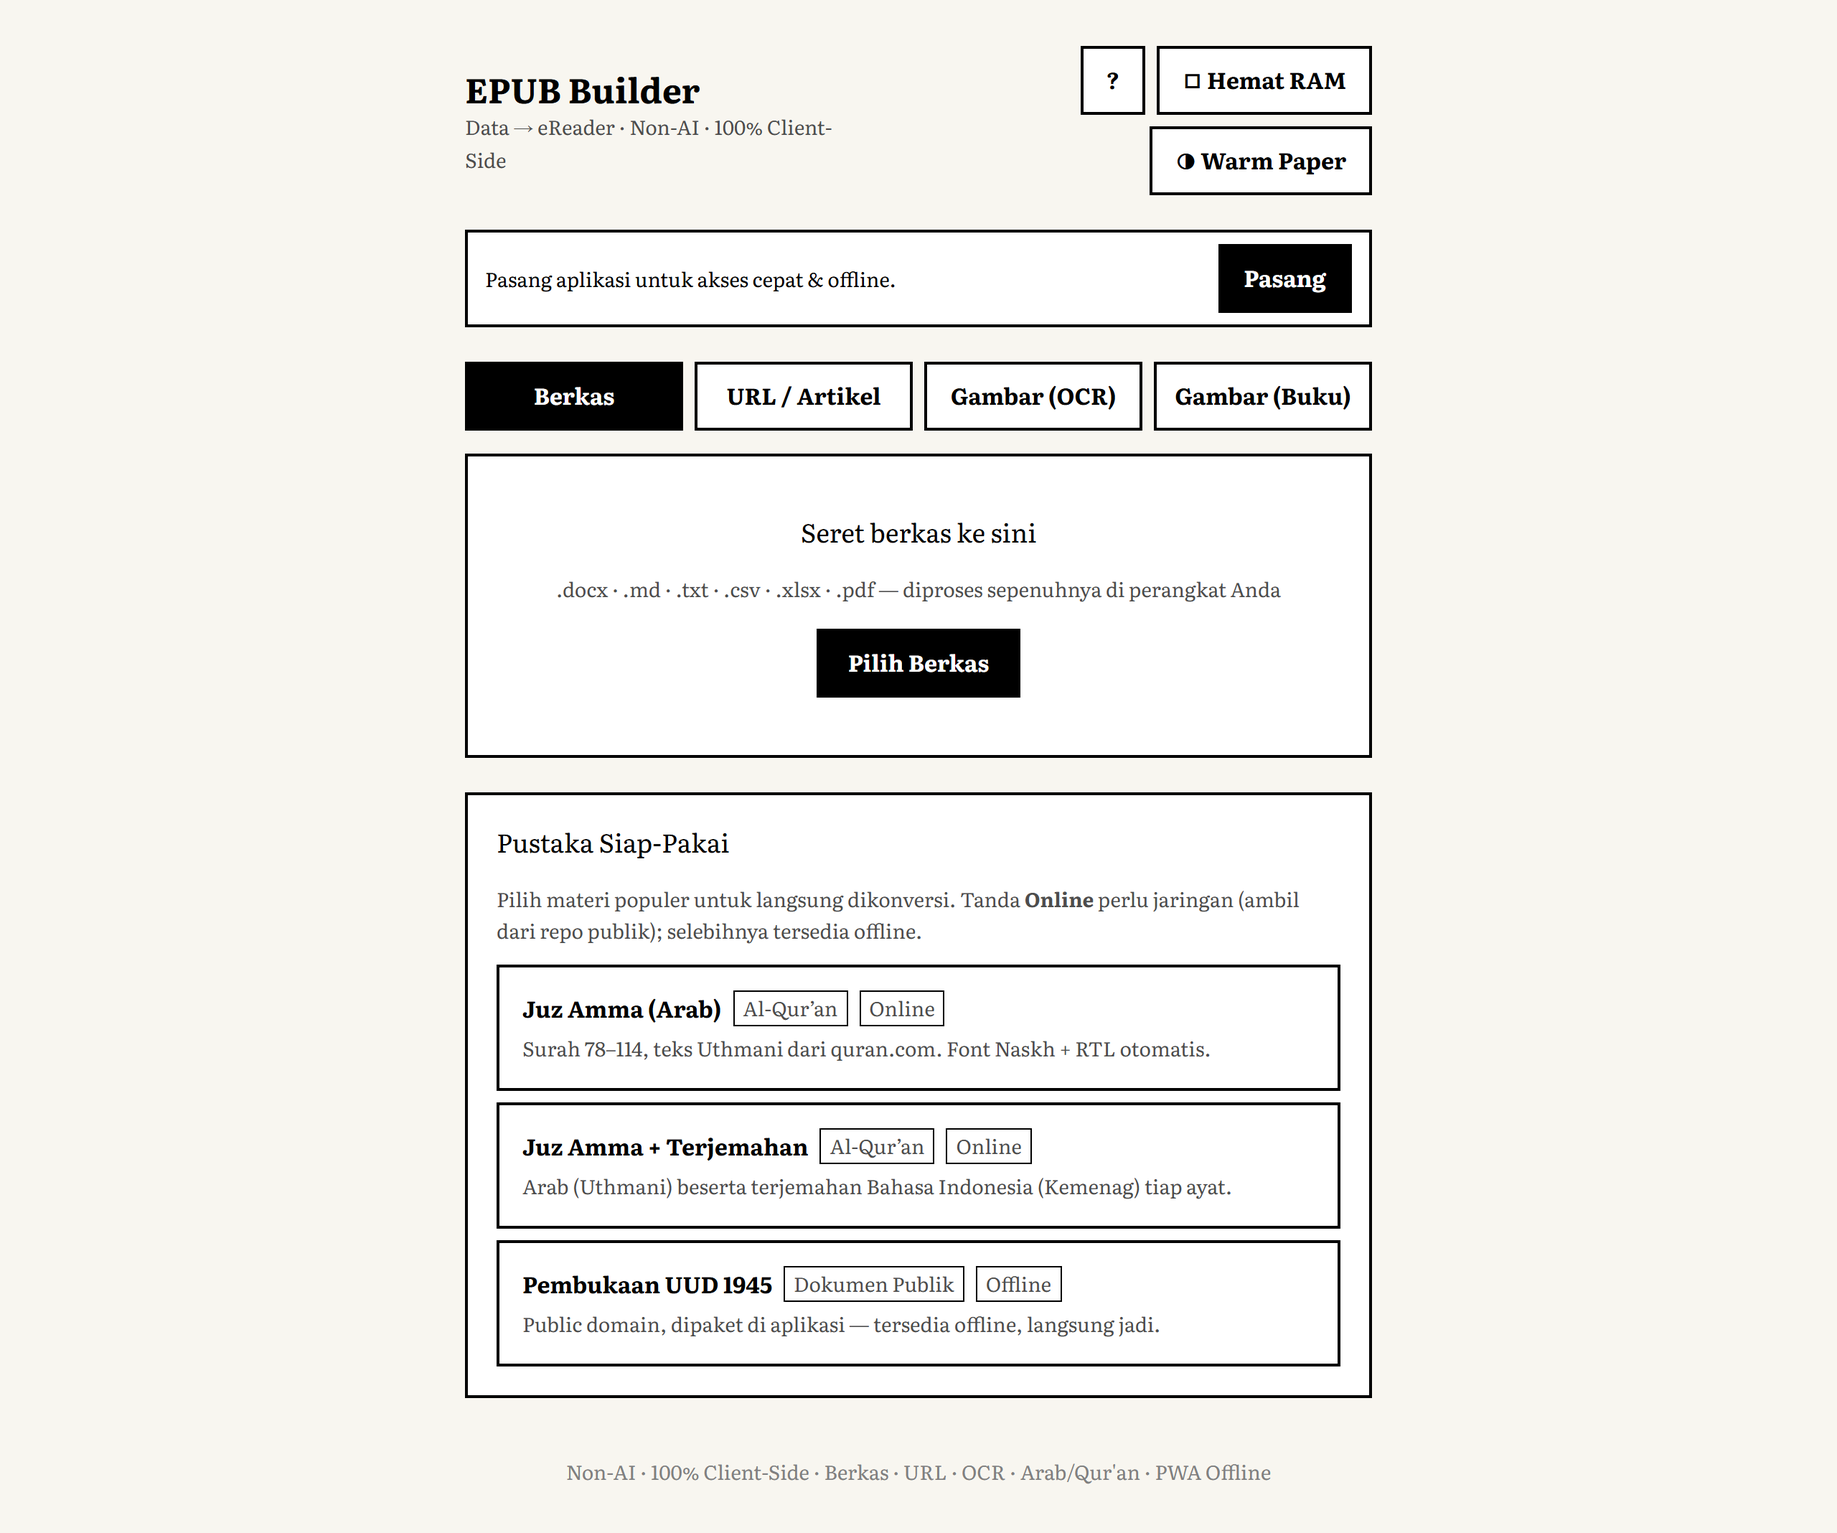
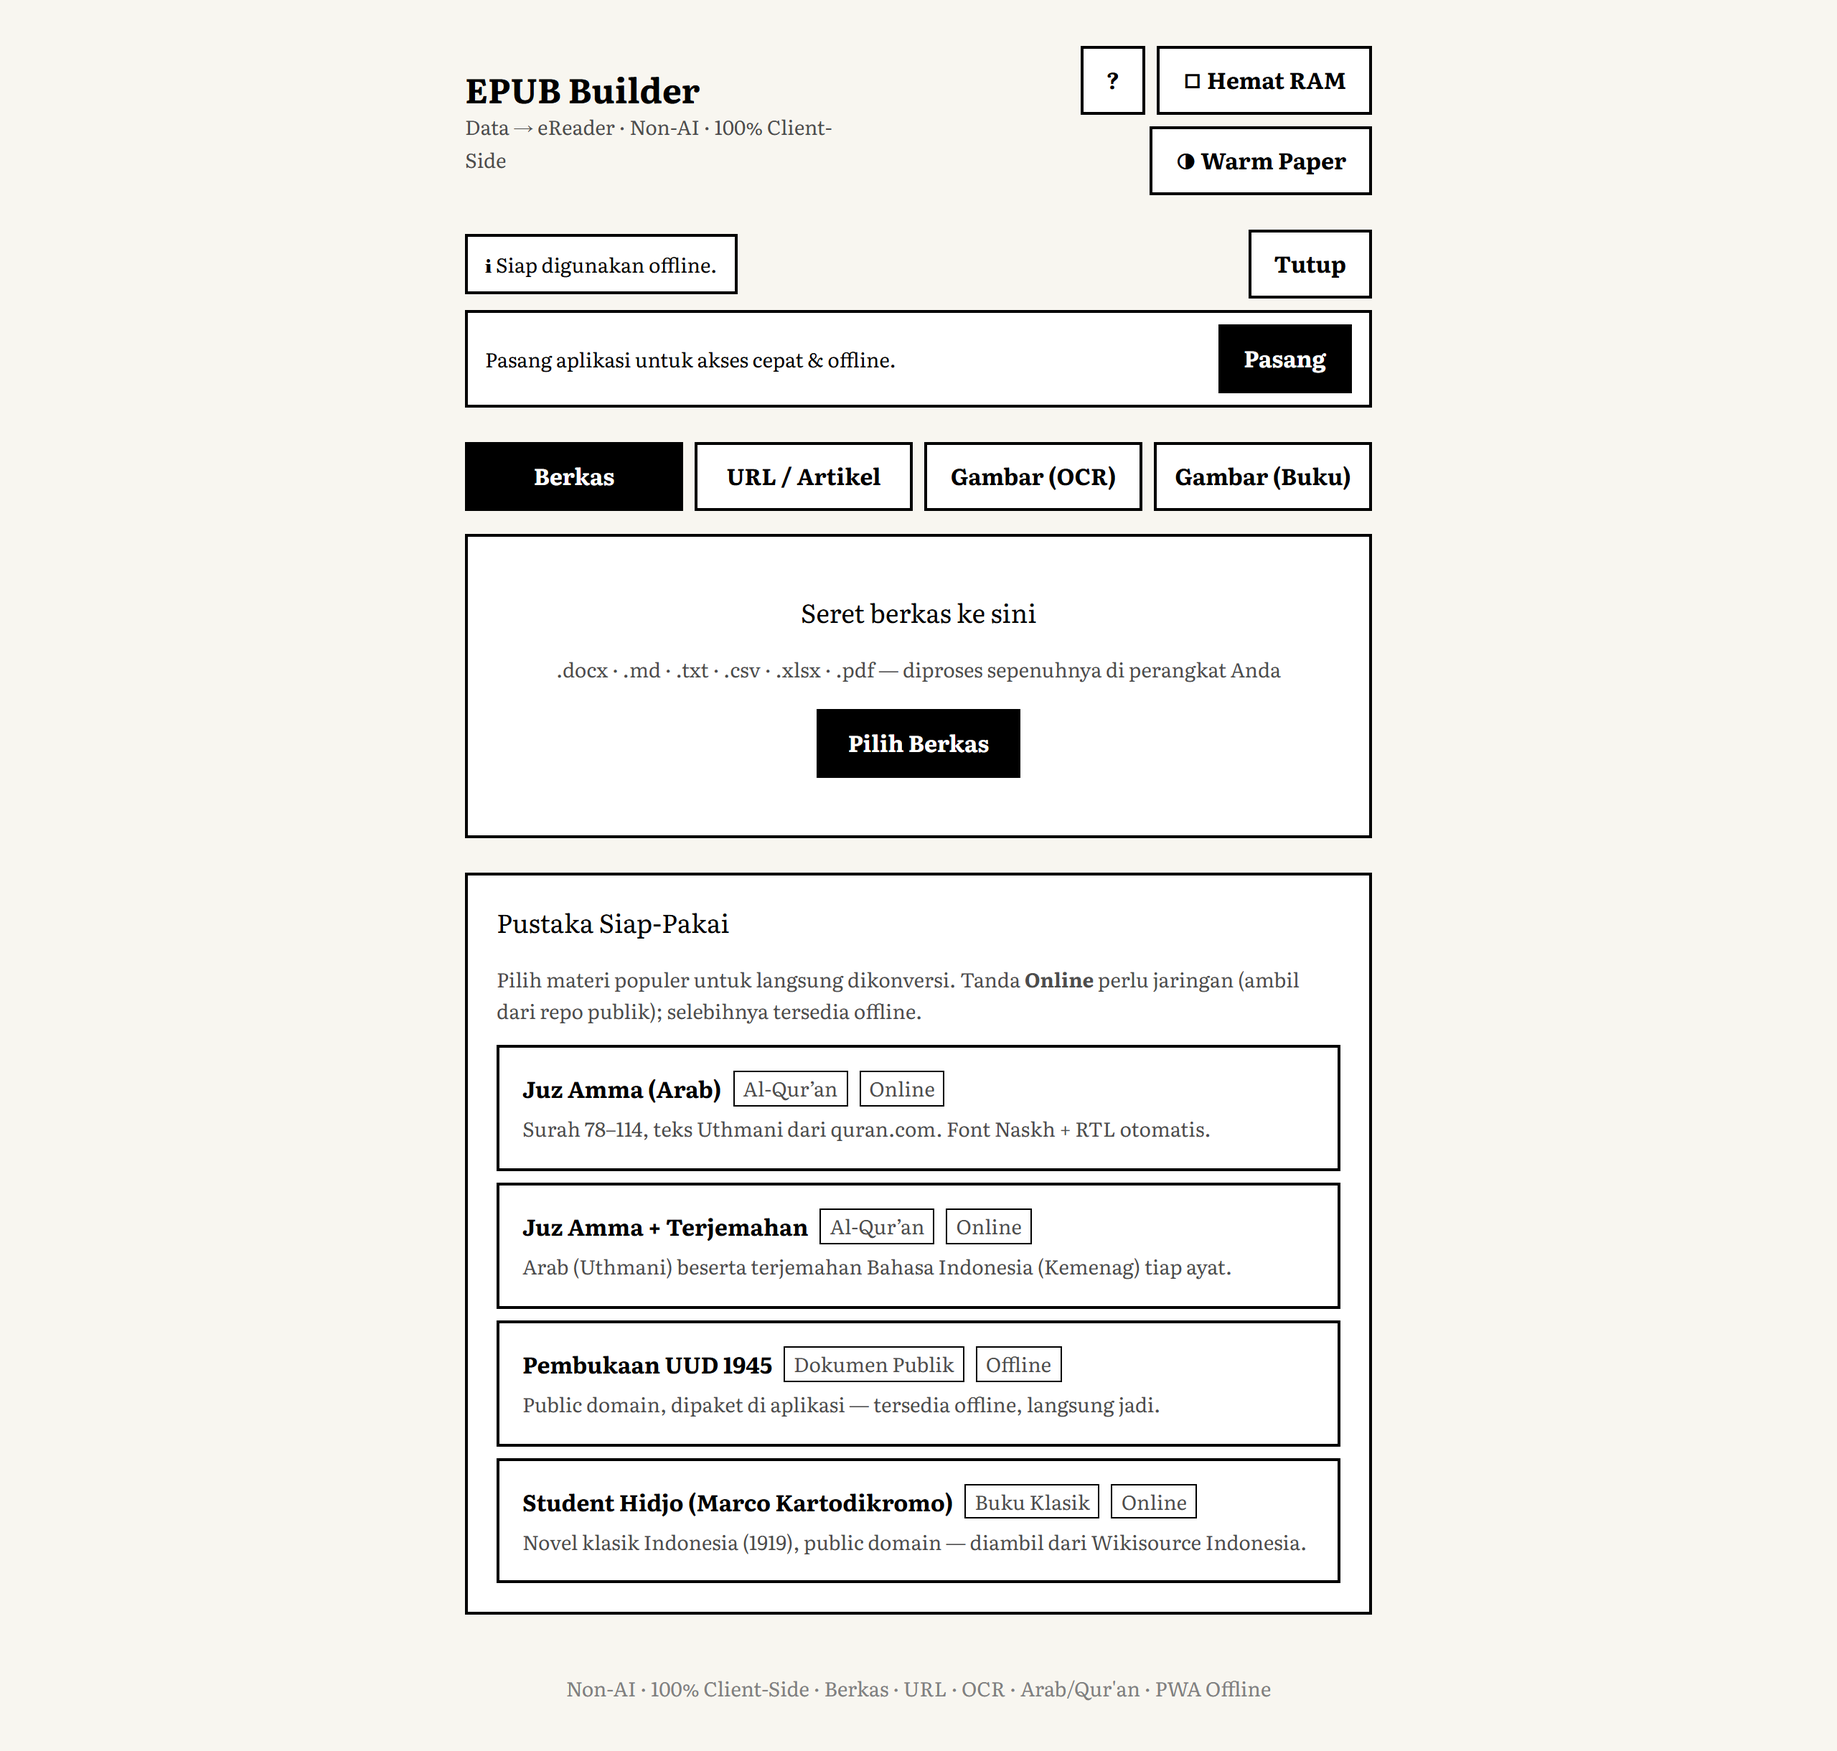
feat: tuntaskan 3 fitur brief — Auto-Extract cover, Pustaka klasik (Wikisource), subset font di Web Worker
- Auto-Extract Cover: mode 'Ambil dari Dokumen' pakai gambar pertama dokumen
  (resolveFirstImageCover: data-URI/aset/URL) — jalur sampul ke-3 sesuai brief
- Pustaka klasik: preset 'Student Hidjo' via Wikisource action API (CORS origin=*)
  + kategori 'Buku Klasik' (fetchWikisourceIR memakai ulang pipeline Readability)
- Subset font di Web Worker (subsetWorker/subsetClient, vite worker.format:'es')
  -> UI tak freeze utk font CJK besar; fail-safe + fallback main-thread
- docs CHANGELOG/CATATAN/README diperbarui; screenshot Sampul(4 kartu) & input(+preset)
- verifikasi: typecheck/build OK, smoke 105, validate 134; runtime: Student Hidjo 5 bab,
  auto-extract graceful, worker build OK

Changed region(s): [[0.25, 0.3399, 0.75, 0.927], [0.25, 0.0309, 0.75, 0.309], [0.3125, 0.9579, 0.6875, 0.9888]]

diff --git a/src/fonts/subsetClient.ts b/src/fonts/subsetClient.ts
@@ -1,0 +1,74 @@
+/**
+ * Klien subsetting off-main-thread. Mencoba Web Worker (subsetWorker) agar UI
+ * tak freeze untuk font besar (CJK); bila Worker tak tersedia / gagal dibuat,
+ * jatuh ke subsetFont main-thread (tetap gagal-aman mengembalikan font utuh).
+ */
+import { subsetFont, type SubsetRequest } from './subset'
+
+interface Pending {
+  resolve: (buf: ArrayBuffer) => void
+  reject: (e: Error) => void
+}
+
+const pending = new Map<number, Pending>()
+let seq = 0
+let worker: Worker | null | undefined // undefined = belum dicoba, null = tak tersedia
+
+function ensureWorker(): Worker | null {
+  if (worker !== undefined) return worker
+  if (typeof Worker === 'undefined') {
+    worker = null
+    return null
+  }
+  try {
+    const w = new Worker(new URL('./subsetWorker.ts', import.meta.url), { type: 'module' })
+    w.onmessage = (e: MessageEvent<{ id: number; data: ArrayBuffer }>) => {
+      const p = pending.get(e.data.id)
+      if (p) {
+        pending.delete(e.data.id)
+        p.resolve(e.data.data)
+      }
+    }
+    w.onerror = () => {
+      // Worker rusak (mis. gagal muat wasm): tolak semua yang tertunda & matikan.
+      for (const [, p] of pending) p.reject(new Error('subset worker error'))
+      pending.clear()
+      try {
+        w.terminate()
+      } catch {
+        /* abaikan */
+      }
+      worker = null
+    }
+    worker = w
+  } catch {
+    worker = null
+  }
+  return worker
+}
+
+function subsetViaWorker(req: SubsetRequest): Promise<ArrayBuffer> {
+  const w = ensureWorker()
+  if (!w) return Promise.reject(new Error('worker tak tersedia'))
+  return new Promise<ArrayBuffer>((resolve, reject) => {
+    const id = ++seq
+    pending.set(id, { resolve, reject })
+    try {
+      // fontData DISALIN (tanpa transfer) agar tetap utuh untuk fallback main-thread.
+      w.postMessage({ id, fontData: req.fontData, chars: [...req.chars] })
+    } catch (e) {
+      pending.delete(id)
+      reject(e as Error)
+    }
+  })
+}
+
+/** Subset font di Worker; fallback ke main-thread bila Worker tak ada/gagal. */
+export async function subsetFontOffMain(req: SubsetRequest): Promise<ArrayBuffer> {
+  if (req.chars.size === 0) return req.fontData
+  try {
+    return await subsetViaWorker(req)
+  } catch {
+    return subsetFont(req)
+  }
+}

diff --git a/src/cover/extract.ts b/src/cover/extract.ts
@@ -13,3 +13,64 @@ export function extractFirstImageSrc(ir: DocumentIR): string | undefined {
   }
   return undefined
 }
+
+/** Decode base64 → Uint8Array (browser & Node 18+ punya atob). */
+function base64ToBytes(b64: string): Uint8Array {
+  const bin = atob(b64)
+  const out = new Uint8Array(bin.length)
+  for (let i = 0; i < bin.length; i++) out[i] = bin.charCodeAt(i)
+  return out
+}
+
+export interface CoverImage {
+  data: ArrayBuffer
+  mime: string
+}
+
+/**
+ * Resolusikan gambar pertama dokumen menjadi biner sampul siap-embed.
+ * Menangani tiga bentuk `src`:
+ *  - **data URI** (mis. gambar docx dari Mammoth) → decode langsung,
+ *  - **path aset** (mis. Image-Book) → ambil dari `ir.assets`,
+ *  - **URL http(s)** (mis. gambar artikel) → fetch (butuh online & lolos CORS).
+ * Mengembalikan undefined bila tak ada gambar / gagal (pemanggil → tanpa sampul).
+ */
+export async function resolveFirstImageCover(ir: DocumentIR): Promise<CoverImage | undefined> {
+  const src = extractFirstImageSrc(ir)
+  if (!src) return undefined
+
+  // 1) data URI
+  if (src.startsWith('data:')) {
+    const m = /^data:([^;,]*)(;base64)?,(.*)$/s.exec(src)
+    if (!m) return undefined
+    const mime = m[1] || 'image/png'
+    const bytes = m[2]
+      ? base64ToBytes(m[3])
+      : new TextEncoder().encode(decodeURIComponent(m[3]))
+    return { data: bytes.buffer as ArrayBuffer, mime }
+  }
+
+  // 2) aset lokal (Image-Book / aset tersemat) — cocokkan path fleksibel.
+  if (ir.assets?.length) {
+    const norm = src.replace(/^\.\.\//, '').replace(/^\.\//, '').replace(/^\//, '')
+    const asset = ir.assets.find(
+      (a) => a.path === norm || src.endsWith(a.path) || a.path.endsWith(norm),
+    )
+    if (asset) return { data: await asset.data.arrayBuffer(), mime: asset.mime }
+  }
+
+  // 3) URL remote (butuh online; bisa gagal karena CORS).
+  if (/^https?:/i.test(src)) {
+    try {
+      const res = await fetch(src)
+      if (res.ok) {
+        const blob = await res.blob()
+        return { data: await blob.arrayBuffer(), mime: blob.type || 'image/jpeg' }
+      }
+    } catch {
+      /* offline / CORS → jatuh ke undefined */
+    }
+  }
+
+  return undefined
+}

diff --git a/src/presets/wikisource.ts b/src/presets/wikisource.ts
@@ -1,0 +1,52 @@
+/**
+ * Public Repo Integration (brief) — tarik teks buku public-domain dari
+ * **Wikisource** via MediaWiki action API (`action=parse&prop=text`). Wikimedia
+ * mengizinkan CORS (`origin=*`) sehingga bisa di-fetch langsung dari browser,
+ * lalu dibersihkan memakai pipeline artikel (Readability) yang sudah ada.
+ *
+ * Catatan: tidak semua judul berisi teks penuh di satu halaman (sebagian Wikisource
+ * memecah karya ke sub-halaman). Pilih judul yang teksnya utuh di satu halaman.
+ */
+import type { DocumentIR } from '@core/types'
+import { assembleIR, parseArticleHtml } from '@parsers'
+
+export interface WikisourceOptions {
+  /** Judul halaman Wikisource (spasi/underscore sama saja). */
+  page: string
+  /** Subdomain bahasa Wikisource, mis. 'id', 'en'. */
+  lang: string
+  /** Judul buku untuk metadata (default = judul halaman). */
+  bookTitle?: string
+  author?: string
+  /** Kode bahasa BCP-47 untuk <dc:language>; default auto-deteksi. */
+  language?: string
+}
+
+export async function fetchWikisourceIR(opts: WikisourceOptions): Promise<DocumentIR> {
+  const api =
+    `https://${opts.lang}.wikisource.org/w/api.php` +
+    `?action=parse&page=${encodeURIComponent(opts.page)}` +
+    `&prop=text&format=json&formatversion=2&origin=*`
+
+  let res: Response
+  try {
+    res = await fetch(api)
+  } catch {
+    throw new Error('Gagal mengambil dari Wikisource — periksa koneksi internet.')
+  }
+  if (!res.ok) throw new Error(`Wikisource mengembalikan status ${res.status}.`)
+
+  const json = (await res.json()) as { parse?: { title?: string; text?: string } }
+  const html = json.parse?.text
+  if (!html) throw new Error('Halaman Wikisource tidak memuat konten teks.')
+
+  const article = parseArticleHtml(html)
+  const ir = assembleIR(article.blocks, {
+    baseName: opts.bookTitle ?? json.parse?.title ?? article.title,
+    source: `Wikisource (${opts.lang}): ${opts.page}`,
+    language: opts.language,
+  })
+  if (opts.bookTitle) ir.meta.title = opts.bookTitle
+  if (opts.author) ir.meta.author = opts.author
+  return ir
+}

diff --git a/src/fonts/subsetWorker.ts b/src/fonts/subsetWorker.ts
@@ -1,0 +1,43 @@
+/// <reference lib="webworker" />
+/**
+ * Web Worker subsetting font (HarfBuzz hb-subset). Memindahkan kerja CPU berat —
+ * terutama subset font **CJK** (10–18 MB) — ke luar main thread agar UI tidak
+ * freeze (brief: "tanpa freeze bahkan di eReader spec rendah").
+ *
+ * Protokol pesan:
+ *   masuk : { id, fontData: ArrayBuffer, chars: string[] }   (fontData DISALIN, bukan transfer)
+ *   keluar: { id, data: ArrayBuffer }                        (hasil subset / font utuh bila gagal)
+ * Gagal-aman: bila subset gagal, kembalikan fontData utuh (echo) agar EPUB tetap terbentuk.
+ */
+import { subsetWithHb, type HbSubsetExports } from './subset'
+
+let hbPromise: Promise<HbSubsetExports> | null = null
+async function loadHb(): Promise<HbSubsetExports> {
+  if (!hbPromise) {
+    hbPromise = (async () => {
+      const { default: wasmUrl } = await import('harfbuzzjs/hb-subset.wasm?url')
+      const res = await fetch(wasmUrl)
+      const { instance } = await WebAssembly.instantiate(await res.arrayBuffer())
+      return instance.exports as unknown as HbSubsetExports
+    })()
+  }
+  return hbPromise
+}
+
+interface InMsg {
+  id: number
+  fontData: ArrayBuffer
+  chars: string[]
+}
+
+self.onmessage = async (e: MessageEvent<InMsg>) => {
+  const { id, fontData, chars } = e.data
+  try {
+    const exports = await loadHb()
+    const out = subsetWithHb(exports, fontData, new Set(chars))
+    ;(self as unknown as Worker).postMessage({ id, data: out }, [out])
+  } catch {
+    // Echo font utuh (transfer keluar) — pemanggil tetap dapat buffer yang valid.
+    ;(self as unknown as Worker).postMessage({ id, data: fontData }, [fontData])
+  }
+}

diff --git a/src/ui/useConverter.ts b/src/ui/useConverter.ts
@@ -2,7 +2,7 @@ import { useCallback, useMemo, useState } from 'react'
 import { parseFile, parseUrl, parseHtmlArticle, parseImageOcr, parseImagesToBook } from '@parsers'
 import { preflight } from '@core'
 import { buildEpub, provideFonts } from '@epub'
-import { generateCoverBlob } from '@cover'
+import { generateCoverBlob, resolveFirstImageCover } from '@cover'
 import { registerCustomFont, type CustomFont } from '@fonts'
 import type { ThemeId } from '@cover'
 import type { DocumentIR, PreflightResult, TextDirection } from '@core/types'
@@ -14,7 +14,7 @@ import { reportEvent } from './telemetry'
 export type ConvertStatus = 'idle' | 'parsing' | 'ready' | 'building' | 'done' | 'error'
 
 /** Sumber sampul yang dipilih pengguna. */
-export type CoverMode = 'none' | 'auto' | 'custom'
+export type CoverMode = 'none' | 'auto' | 'custom' | 'extract'
 
 export interface CustomCover {
   data: ArrayBuffer
@@ -264,6 +264,15 @@ export function useConverter() {
         cover = { data: await blob.arrayBuffer(), mime: blob.type || 'image/jpeg' }
       } else if (coverMode === 'custom' && customCover) {
         cover = { data: customCover.data, mime: customCover.mime }
+      } else if (coverMode === 'extract') {
+        cover = await resolveFirstImageCover(ir)
+        if (!cover) {
+          pushToast(
+            'Tidak menemukan gambar yang bisa dipakai di dokumen — EPUB dibuat tanpa sampul.',
+            'warning',
+            7000,
+          )
+        }
       }
 
       // Font embed (di-skip graceful bila biner belum dibundel). Font kustom

diff --git a/src/epub/fontProvider.ts b/src/epub/fontProvider.ts
@@ -1,5 +1,6 @@
 import type { DocumentIR, ScriptHint } from '@core/types'
-import { collectUsedChars, subsetFont } from '@fonts/subset'
+import { collectUsedChars } from '@fonts/subset'
+import { subsetFontOffMain } from '@fonts/subsetClient'
 import { FONT_REGISTRY, fontsForScript, primaryFont } from '@fonts/fonts'
 import type { FontAsset } from '@fonts/fonts'
 import type { CustomFont } from '@fonts/customFont'
@@ -66,7 +67,7 @@ export async function provideFonts(ir: DocumentIR, opts: ProvideFontsOptions = {
         } else {
           throw new Error(`HTTP ${local?.status ?? 'gagal'}`)
         }
-        if (doSubset) data = await subsetFont({ fontData: data, chars })
+        if (doSubset) data = await subsetFontOffMain({ fontData: data, chars })
         binaries.push({ file: f.file, format: asset.format, data })
       } catch (e) {
         console.warn(`[fontProvider] lewati ${f.file}: ${(e as Error).message}`)
@@ -79,7 +80,7 @@ export async function provideFonts(ir: DocumentIR, opts: ProvideFontsOptions = {
   for (const cf of opts.custom ?? []) {
     const bin = cf.asset.files[0]
     let data = cf.data
-    if (doSubset) data = await subsetFont({ fontData: data, chars })
+    if (doSubset) data = await subsetFontOffMain({ fontData: data, chars })
     result.push({
       asset: cf.asset,
       binaries: [{ file: bin.file, format: cf.asset.format, data }],

diff --git a/src/ui/CoverPanel.tsx b/src/ui/CoverPanel.tsx
@@ -73,12 +73,18 @@ export function CoverPanel({
 }) {
   return (
     <div className="flex flex-col gap-4">
-      <div className="flex flex-col gap-2 sm:flex-row" role="group" aria-label="Sumber sampul">
+      <div className="flex flex-col gap-2 sm:flex-row sm:flex-wrap" role="group" aria-label="Sumber sampul">
         <OptionCard
           active={mode === 'auto'}
           onClick={() => onMode('auto')}
           title="Buat Otomatis"
           desc="Dari judul & gaya"
+        />
+        <OptionCard
+          active={mode === 'extract'}
+          onClick={() => onMode('extract')}
+          title="Ambil dari Dokumen"
+          desc="Gambar pertama dokumen"
         />
         <OptionCard
           active={mode === 'custom'}
@@ -93,6 +99,13 @@ export function CoverPanel({
           desc="EPUB tanpa gambar"
         />
       </div>
+
+      {mode === 'extract' && (
+        <p className="font-ui text-body text-ink-muted">
+          Sampul diambil dari <strong>gambar pertama</strong> di dokumen saat Build. Bila dokumen
+          tak memuat gambar (atau gambarnya tautan online yang terblokir), EPUB dibuat tanpa sampul.
+        </p>
+      )}
 
       {mode === 'auto' && (
         <div className="flex flex-col gap-4">

diff --git a/src/presets/catalog.ts b/src/presets/catalog.ts
@@ -7,8 +7,9 @@
 import type { DocumentIR } from '@core/types'
 import { fetchJuzAmmaIR } from './quran'
 import { buildUUD1945IR } from './bundled'
+import { fetchWikisourceIR } from './wikisource'
 
-export type PresetCategory = 'quran' | 'document'
+export type PresetCategory = 'quran' | 'document' | 'classic'
 
 export interface PresetItem {
   id: string
@@ -44,5 +45,14 @@ export const PRESETS: PresetItem[] = [
     category: 'document',
     online: false,
     load: async () => buildUUD1945IR(),
+  },
+  {
+    id: 'student-hidjo',
+    title: 'Student Hidjo (Marco Kartodikromo)',
+    description: 'Novel klasik Indonesia (1919), public domain — diambil dari Wikisource Indonesia.',
+    category: 'classic',
+    online: true,
+    load: () =>
+      fetchWikisourceIR({ page: 'Student Hidjo', lang: 'id', author: 'Mas Marco Kartodikromo' }),
   },
 ]

diff --git a/vite.config.ts b/vite.config.ts
@@ -6,6 +6,9 @@ import { fileURLToPath, URL } from 'node:url'
 // 100% client-side PWA. Service Worker memungkinkan Mode Offline Standalone
 // (seluruh konversi dokumen lokal berjalan tanpa jaringan).
 export default defineConfig({
+  // Worker subsetting font (subsetWorker) memakai dynamic import (wasm) → code-split,
+  // sehingga format worker harus ES module (bukan default 'iife').
+  worker: { format: 'es' },
   plugins: [
     react(),
     VitePWA({

diff --git a/src/cover/index.ts b/src/cover/index.ts
@@ -5,4 +5,5 @@ export { wrapText, fitFontSize, DEFAULT_COVER } from './layout'
 export type { MeasureFn, FitResult, FitOptions, CoverDimensions } from './layout'
 export { drawCoverToCanvas, generateCoverBlob } from './draw'
 export type { GenerateCoverOptions } from './draw'
-export { extractFirstImageSrc } from './extract'
+export { extractFirstImageSrc, resolveFirstImageCover } from './extract'
+export type { CoverImage } from './extract'

diff --git a/src/presets/index.ts b/src/presets/index.ts
@@ -4,3 +4,5 @@ export type { PresetItem, PresetCategory } from './catalog'
 export { fetchJuzAmmaIR } from './quran'
 export type { JuzAmmaOptions } from './quran'
 export { buildUUD1945IR } from './bundled'
+export { fetchWikisourceIR } from './wikisource'
+export type { WikisourceOptions } from './wikisource'

diff --git a/src/ui/StarterLibrary.tsx b/src/ui/StarterLibrary.tsx
@@ -10,6 +10,7 @@ import { Section } from './primitives'
 const CATEGORY_LABEL: Record<PresetItem['category'], string> = {
   quran: 'Al-Qur’an',
   document: 'Dokumen Publik',
+  classic: 'Buku Klasik',
 }
 
 export function StarterLibrary({
